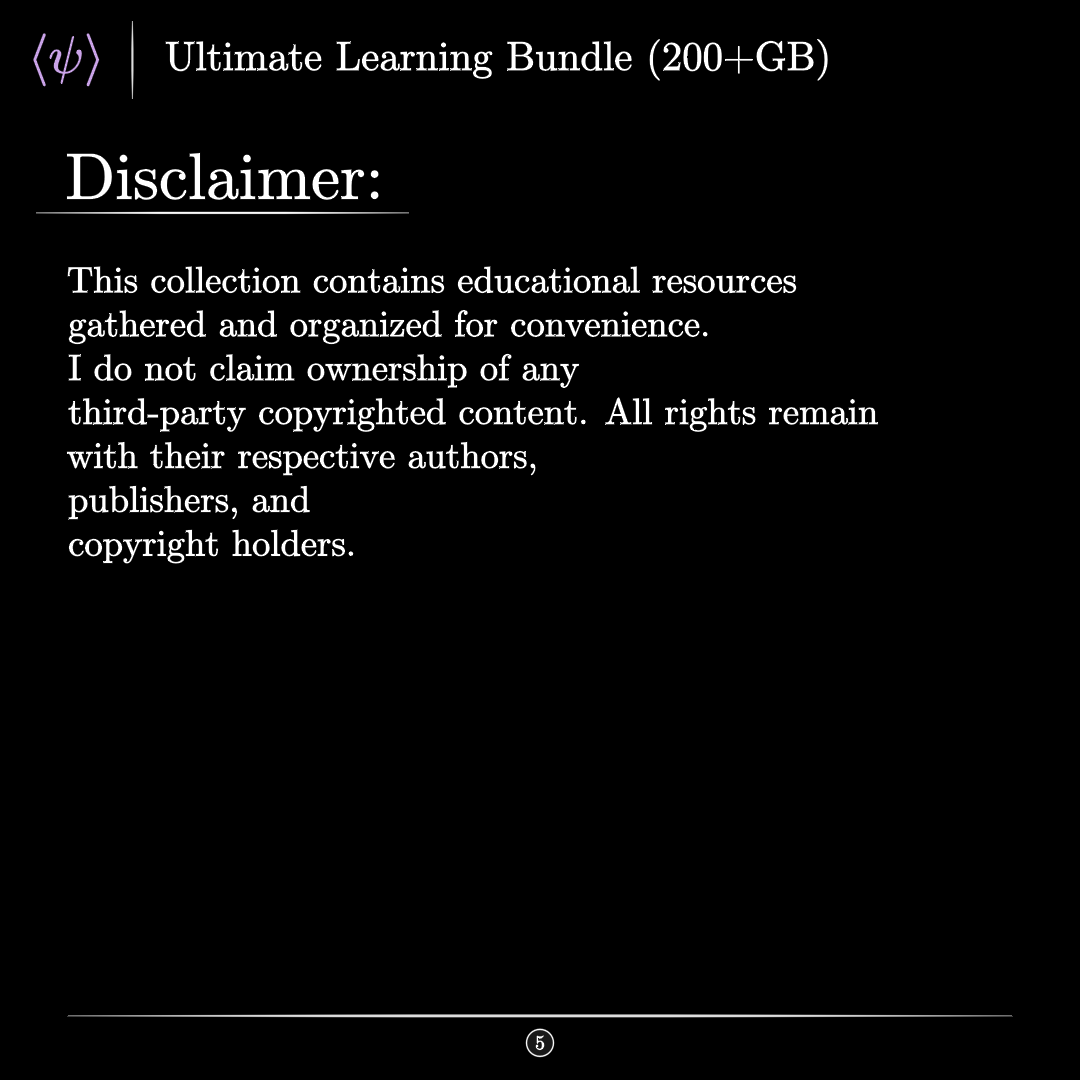
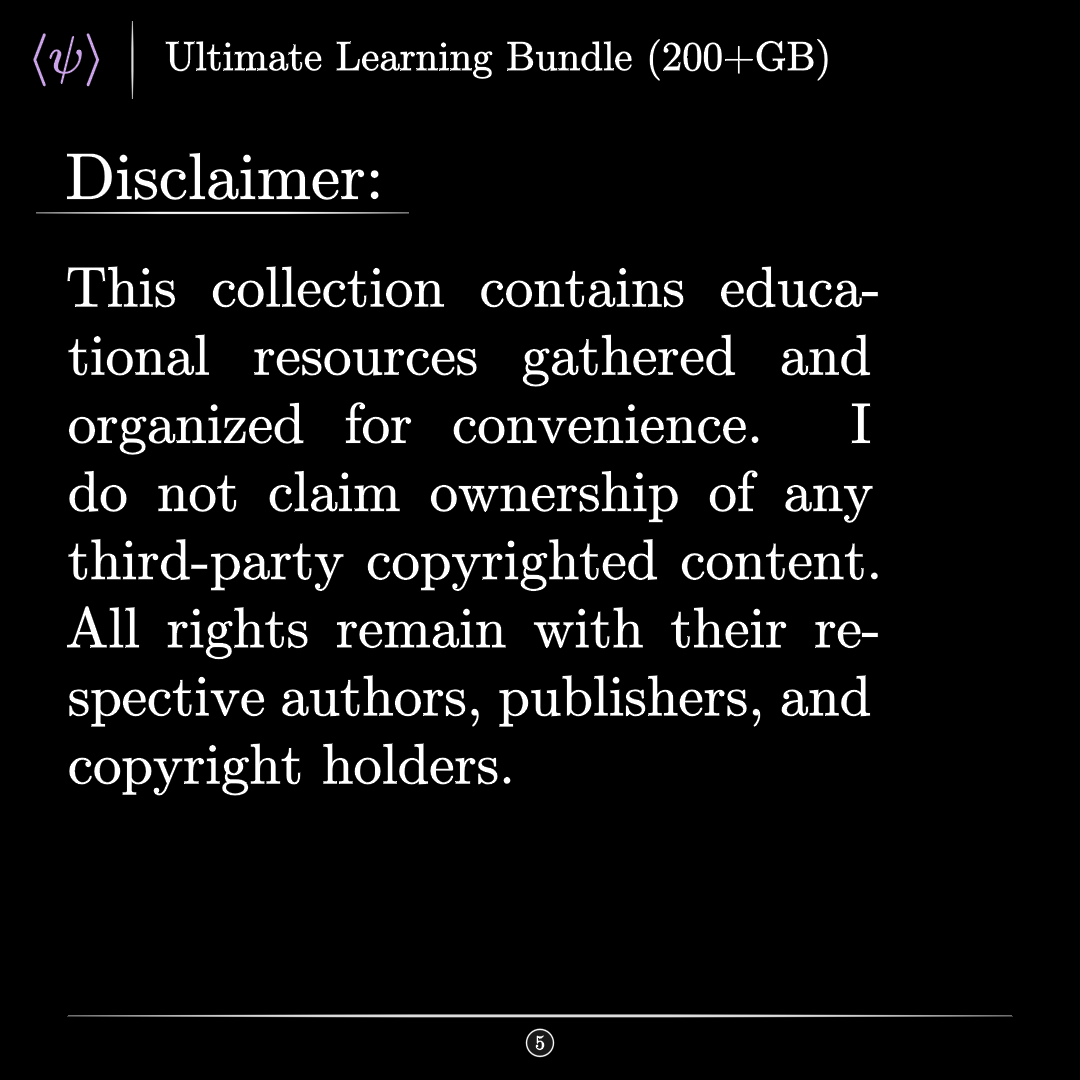
f

Changed region(s): [[0.0611, 0.2444, 0.825, 0.7333]]

diff --git a/test.py b/test.py
@@ -243,10 +243,12 @@ class Dis(PaidTemplate):
         self.add(t, under)
         dis = TexText(
             R"""
-            This collection contains educational resources \\gathered and organized
-            for convenience.\\ I do not claim ownership of any \\third-party copyrighted
-            content. All rights remain\\ with their respective authors,\\ publishers,
-            and \\copyright holders.
+            \begin{minipage}{0.41\textwidth}
+            This collection contains educational resources gathered and organized
+            for convenience. I do not claim ownership of any third-party copyrighted
+            content. All rights remain with their respective authors, publishers,
+            and copyright holders.
+            \end{minipage}
             """, alignment=R"\flushleft"
         )
         dis.set_width(FRAME_WIDTH - 2)
